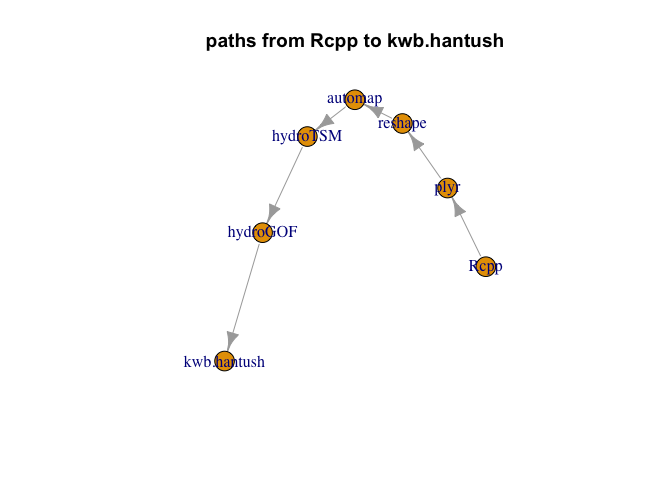
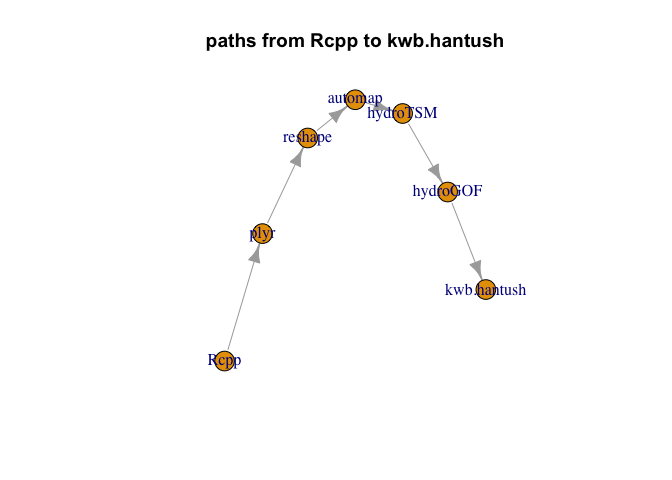
don't use shortest distance

diff --git a/pkg_risk/package_reach.md b/pkg_risk/package_reach.md
@@ -82,7 +82,8 @@ for(use_type in c("Depends", "Imports", "Suggests", "LinkingTo")) {
 
 ``` r
 # build relation graph edges
-want <- logical(nrow(d))
+n_nodes <- nrow(d)
+want <- logical(n_nodes)
 for(relation in c("LinkingTo", "Depends", "Imports")) {
   want <- want | d[[paste(relation, target_pkg, sep = "_")]]
 }
@@ -120,7 +121,7 @@ get_edges <- function(row) {
       Package = row$Package[[1]],
       stringsAsFactors = FALSE)
 }
-ee <- lapply(seq_len(nrow(d)),
+ee <- lapply(seq_len(n_nodes),
              function(i) {
                get_edges(d[i, , drop = FALSE])
              })
@@ -144,7 +145,7 @@ find_induced_subgraph <- function(start, end) {
   if(is.infinite(dist)) {
     return(NULL)
   }
-  nbhd <- igraph::ego(graph, mode="out", nodes = start, order = dist)[[1]]
+  nbhd <- igraph::ego(graph, mode="out", nodes = start, order = n_nodes)[[1]]
   dback <- igraph::distances(graph, v = end, to = nbhd , mode = "in")
   nodes <- dback[ , !is.infinite(dback[1, , drop = TRUE]), drop = TRUE]
   subg <- igraph::induced_subgraph(graph, nbhd[names(nodes)], impl = "create_from_scratch")
@@ -167,7 +168,7 @@ find_induced_subgraph <- function(start, end) {
     ##  [1]    1 1605 3293 1253  162   22    1    0    0    0    0
 
 ``` r
-(sum(sizes)-1)/nrow(d)
+(sum(sizes)-1)/n_nodes
 ```
 
     ## [1] 0.4525068
@@ -257,7 +258,7 @@ ggplot(data = reachf, mapping = aes(x = Package, y = reach)) +
 ``` r
 reachf <- reachf[order(as.character(reachf$Package)), , drop = FALSE]
 rownames(reachf) <- NULL
-reachf$fraction <- reachf$reach / nrow(d)
+reachf$fraction <- reachf$reach / n_nodes
 knitr::kable(reachf)
 ```
 
